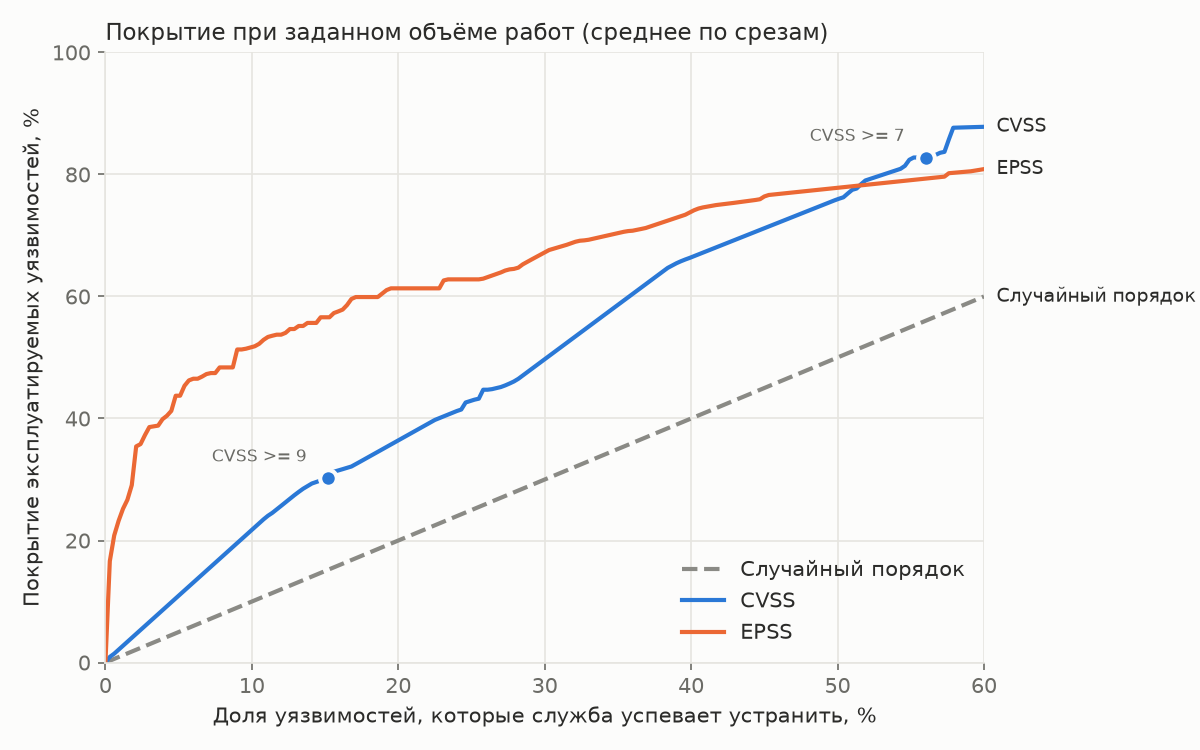
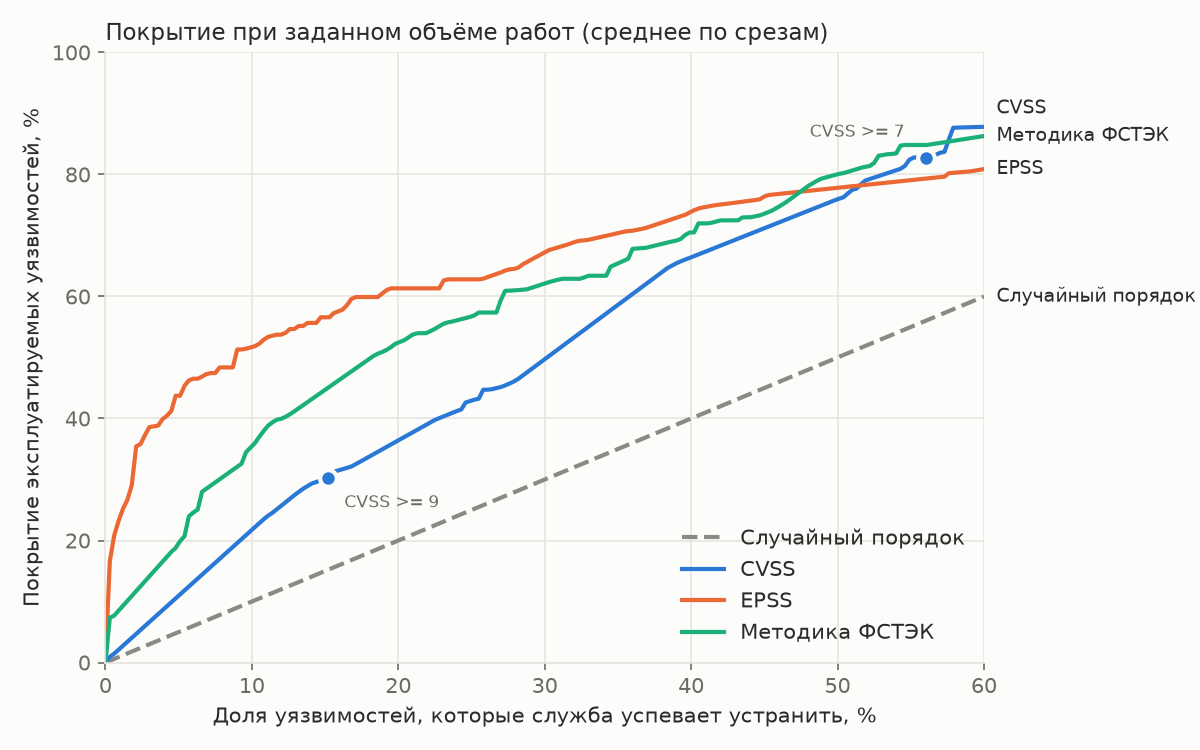
Результаты с методикой ФСТЭК

diff --git a/experiments/results/baseline_report.md b/experiments/results/baseline_report.md
@@ -1,6 +1,6 @@
 # Базовые линии приоритизации
 
-Сформировано: 2026-11-04 21:10. Версия каталога CISA KEV: 2026.10.23.
+Сформировано: 2026-11-04 22:05. Версия каталога CISA KEV: 2026.10.23.
 
 Отчёт формируется командой `patchprio baseline`. Методика: [docs/methodology.md](../../docs/methodology.md).
 
@@ -22,6 +22,7 @@
 | Случайный порядок | 1.0% | 5.0% | 10.0% | 20.0% |
 | CVSS | 2.3% | 11.0% | 21.7% | 36.4% |
 | EPSS | 25.2% | 43.7% | 51.7% | 61.3% |
+| Методика ФСТЭК | 8.8% | 19.5% | 35.4% | 52.4% |
 
 ## Эффективность при фиксированном бюджете
 
@@ -32,6 +33,7 @@
 | Случайный порядок | 0.1% | 0.1% | 0.1% | 0.1% |
 | CVSS | 0.3% | 0.3% | 0.3% | 0.2% |
 | EPSS | 2.5% | 1.0% | 0.6% | 0.4% |
+| Методика ФСТЭК | 0.9% | 0.4% | 0.4% | 0.3% |
 
 ## Объём работ для заданного покрытия
 
@@ -42,15 +44,21 @@
 | Случайный порядок | 50.0% | 80.0% |
 | CVSS | 30.2% | 53.1% |
 | EPSS | 11.3% | 50.8% |
+| Методика ФСТЭК | 19.8% | 50.5% |
 
-## Пороговые политики CVSS
+## Пороговые политики
 
-Типовая практика "устраняем всё выше порога".
+Типовая практика "устраняем всё выше порога": по баллу CVSS и по уровню критичности методики ФСТЭК.
+
+Уровни ФСТЭК зависят от показателя инфраструктуры, поэтому посчитаны для типового профиля: сервер, уязвимо 10-50% узлов, доступен из интернета (Iinfr = 0.80). Профиль задаётся в `config/experiment.toml`.
 
 | Политика | Доля устраняемых | Покрытие | Эффективность |
 |---|---|---|---|
 | CVSS >= 7 | 56.0% | 82.8% | 0.2% |
 | CVSS >= 9 | 15.2% | 30.2% | 0.3% |
+| ФСТЭК: критический | 0.0% | 0.0% | 0.0% |
+| ФСТЭК: критический и высокий | 0.3% | 7.3% | 3.1% |
+| ФСТЭК: средний и выше | 65.6% | 87.3% | 0.2% |
 
 ## Публичные эксплойты на дату среза
 
@@ -88,7 +96,7 @@
 
 ## Как читать результат
 
-Чем выше и левее кривая, тем лучше способ: при меньшем объёме работ он закрывает больше реально эксплуатируемых уязвимостей. Разрабатываемая модель должна превзойти обе базовые линии: CVSS как распространённую практику и EPSS как наиболее сильный открытый аналог.
+Чем выше и левее кривая, тем лучше способ: при меньшем объёме работ он закрывает больше реально эксплуатируемых уязвимостей. Разрабатываемая модель должна превзойти базовые линии: CVSS как распространённую практику, методику ФСТЭК как отечественный регламент и EPSS как наиболее сильный открытый аналог.
 
 ## Ограничения
 
